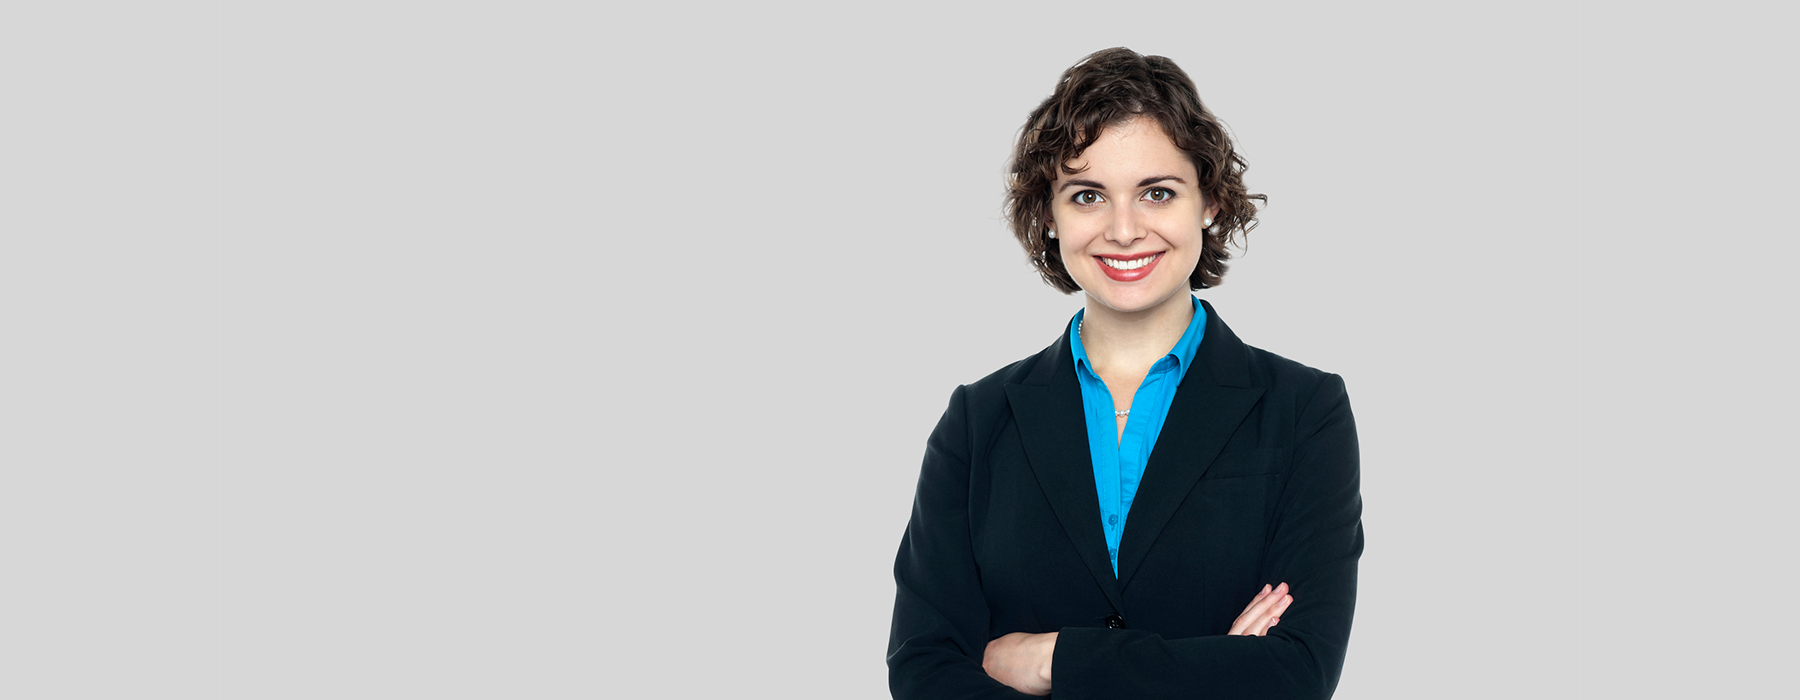
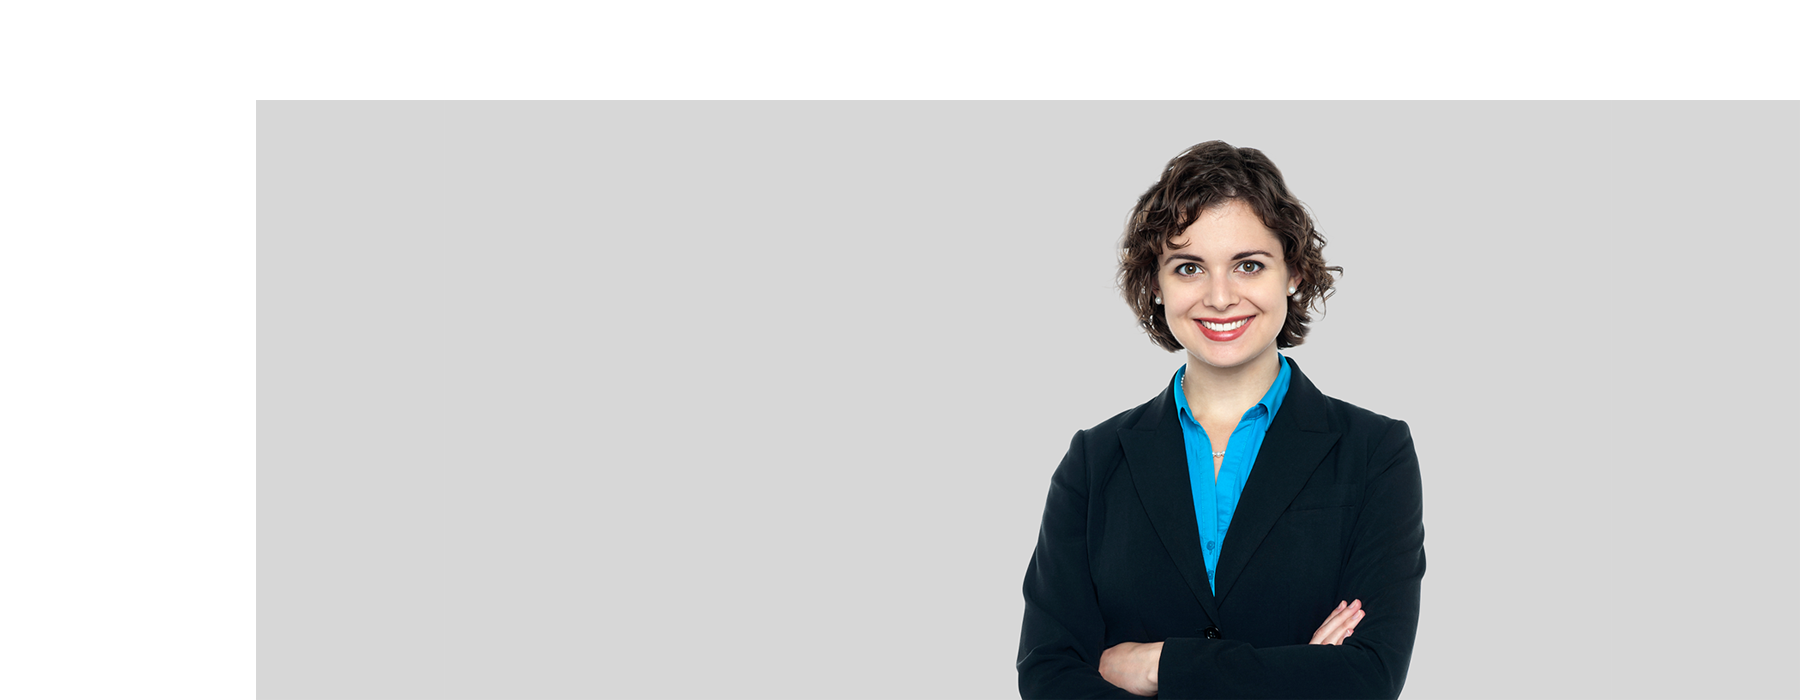
s02

diff --git a/docs/index.html b/docs/index.html
@@ -4155,7 +4155,7 @@ max-width: 768px;
                   </div> -->
                 </li>
                 <li class="menu__list-item dropdown">
-                  <a href="#team02" class="dropbtn" onclick="myFunctionWireless()">Партнеры</a>
+                  <a href="#tes02am02" class="dropbtn" onclick="myFunctionWireless()">Партнеры</a>
 
 <!--
                   <div class="dropdown-content" id="myWireless">